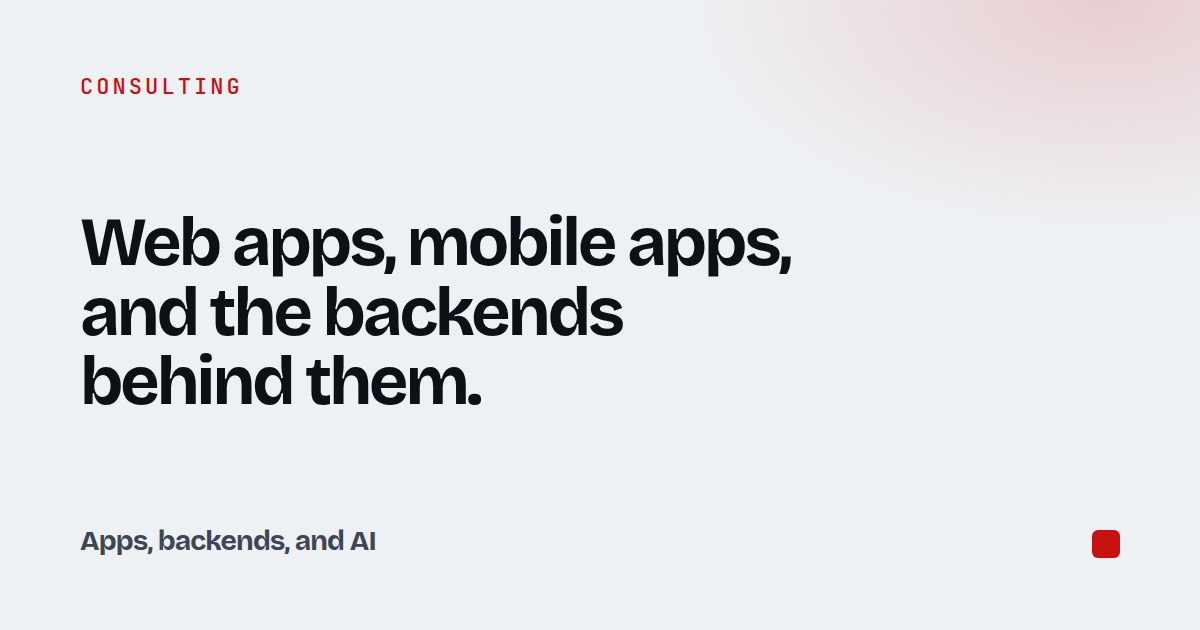
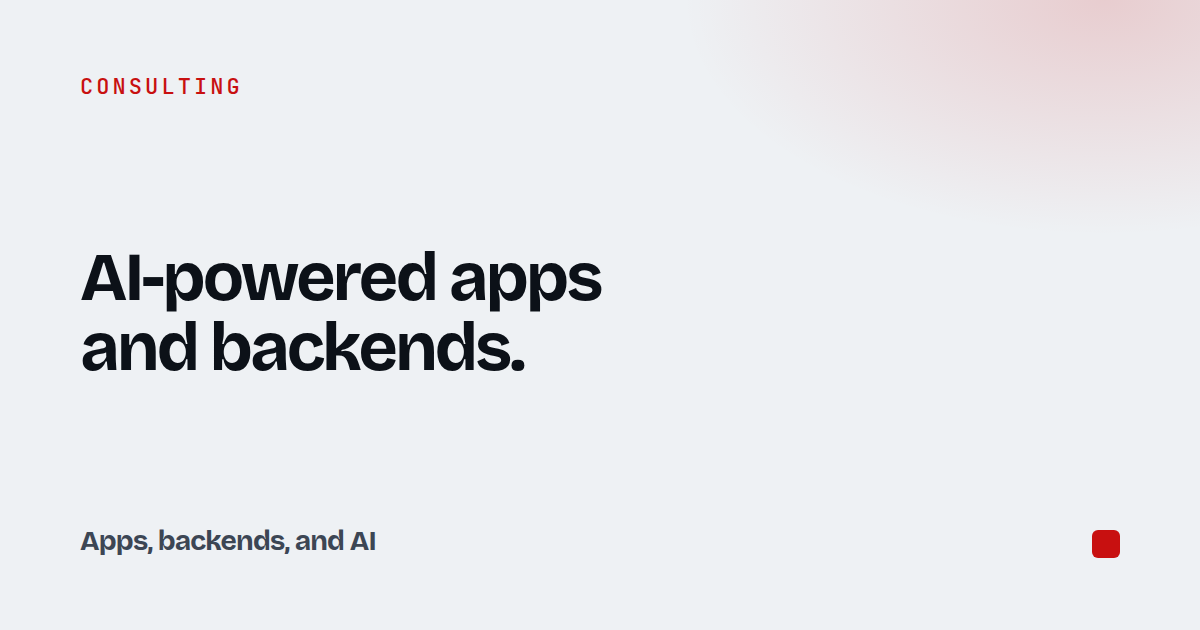
Fix the mobile menu overlay and lead with AI-powered work.
The open menu is portaled out of the sticky header, so the bar's blur no longer collapses it into a strip over the page. The hero and the SEO title now say AI-powered apps and backends.

Changed region(s): [[0.0617, 0.3317, 0.6783, 0.6635]]

diff --git a/src/components/TopBar.jsx b/src/components/TopBar.jsx
@@ -1,4 +1,5 @@
-import { useEffect, useId, useRef, useState } from "react"
+import { useEffect, useId, useLayoutEffect, useRef, useState } from "react"
+import { createPortal } from "react-dom"
 import { site } from "../content.js"
 
 function readTheme() {
@@ -19,6 +20,7 @@ export default function TopBar() {
   const menuId = useId()
   const toggleRef = useRef(null)
   const firstLinkRef = useRef(null)
+  const skipRestore = useRef(false)
 
   useEffect(() => {
     const ids = site.nav.map((item) => item.href.slice(1))
@@ -26,6 +28,7 @@ export default function TopBar() {
 
     const update = () => {
       frame = 0
+      if (document.documentElement.classList.contains("menu-lock")) return
       const bar = document.querySelector(".topbar")?.getBoundingClientRect().height ?? 72
       // Just under the sticky bar, past the scroll-padding landing point.
       // Sort by document position: Process sits above Work, but later in the nav.
@@ -70,24 +73,103 @@ export default function TopBar() {
     return () => window.removeEventListener("resize", onResize)
   }, [])
 
-  useEffect(() => {
+  useLayoutEffect(() => {
     if (!open) return undefined
+    const html = document.documentElement
+    const body = document.body
+    const content = document.getElementById("content")
+    const colophon = document.querySelector(".colophon")
+    const scrollY = window.scrollY
+    const syncTop = () => {
+      const bar = document.querySelector(".topbar")?.getBoundingClientRect().height ?? 72
+      html.style.setProperty("--menu-top", `${bar}px`)
+    }
+
+    html.classList.add("menu-lock")
+    body.style.position = "fixed"
+    body.style.top = `-${scrollY}px`
+    body.style.left = "0"
+    body.style.right = "0"
+    body.style.width = "100%"
+    if (content) content.inert = true
+    if (colophon) colophon.inert = true
+    syncTop()
+
+    const blockScroll = (event) => {
+      const menu = event.target instanceof Element ? event.target.closest(".menu") : null
+      if (menu && menu.scrollHeight > menu.clientHeight + 1) return
+      event.preventDefault()
+    }
+
     const onKey = (event) => {
       if (event.key === "Escape") {
         setOpen(false)
-        toggleRef.current?.focus()
+        toggleRef.current?.focus({ preventScroll: true })
+        return
+      }
+      if (event.key !== "Tab") return
+      const items = [...document.querySelectorAll(".topbar a, .topbar button, .menu-layer a, .menu-layer button")]
+        .filter((el) => el.tabIndex !== -1 && el.getClientRects().length > 0)
+      if (items.length === 0) return
+      const first = items[0]
+      const last = items[items.length - 1]
+      if (event.shiftKey && document.activeElement === first) {
+        event.preventDefault()
+        last.focus({ preventScroll: true })
+      } else if (!event.shiftKey && document.activeElement === last) {
+        event.preventDefault()
+        first.focus({ preventScroll: true })
       }
     }
+
     document.addEventListener("keydown", onKey)
-    firstLinkRef.current?.focus()
-    document.body.style.overflow = "hidden"
+    document.addEventListener("touchmove", blockScroll, { passive: false })
+    document.addEventListener("wheel", blockScroll, { passive: false })
+    window.addEventListener("resize", syncTop)
+    firstLinkRef.current?.focus({ preventScroll: true })
+
     return () => {
+      html.classList.remove("menu-lock")
+      html.style.removeProperty("--menu-top")
+      body.style.position = ""
+      body.style.top = ""
+      body.style.left = ""
+      body.style.right = ""
+      body.style.width = ""
+      if (content) content.inert = false
+      if (colophon) colophon.inert = false
+      if (!skipRestore.current) {
+        const behavior = html.style.scrollBehavior
+        html.style.scrollBehavior = "auto"
+        window.scrollTo(0, scrollY)
+        html.style.scrollBehavior = behavior
+      }
+      skipRestore.current = false
       document.removeEventListener("keydown", onKey)
-      document.body.style.overflow = ""
+      document.removeEventListener("touchmove", blockScroll)
+      document.removeEventListener("wheel", blockScroll)
+      window.removeEventListener("resize", syncTop)
     }
   }, [open])
 
   const close = () => setOpen(false)
+
+  const followLink = () => {
+    skipRestore.current = true
+    const html = document.documentElement
+    const body = document.body
+    const y = Math.abs(Number.parseInt(body.style.top || "0", 10)) || 0
+    const behavior = html.style.scrollBehavior
+    html.style.scrollBehavior = "auto"
+    body.style.position = ""
+    body.style.top = ""
+    body.style.left = ""
+    body.style.right = ""
+    body.style.width = ""
+    window.scrollTo(0, y)
+    html.style.scrollBehavior = behavior
+    setOpen(false)
+  }
 
   const onTheme = () => {
     const next = theme === "dark" ? "light" : "dark"
@@ -95,56 +177,70 @@ export default function TopBar() {
     setTheme(next)
   }
 
+  const nav = (
+    <nav id={menuId} className={open ? "menu open" : "menu"} aria-label="Primary">
+      <ul>
+        {site.nav.map((item, index) => (
+          <li key={item.href}>
+            <a
+              ref={index === 0 ? firstLinkRef : undefined}
+              href={item.href}
+              aria-current={current === item.href ? "true" : undefined}
+              onClick={followLink}
+            >
+              {item.label}
+            </a>
+          </li>
+        ))}
+      </ul>
+      <a className="button button-small menu-cta" href="#contact" onClick={followLink}>
+        {site.hero.primaryCta}
+      </a>
+    </nav>
+  )
+
   return (
-    <header className="topbar">
-      <div className="frame topbar-inner">
-        <a className="brand" href="#top">
-          <span className="brand-mark" aria-hidden="true" />
-          {site.name}
-        </a>
-
-        <button
-          ref={toggleRef}
-          className="menu-button"
-          type="button"
-          aria-expanded={open}
-          aria-controls={menuId}
-          onClick={() => setOpen((value) => !value)}
-        >
-          {open ? "Close" : "Menu"}
-        </button>
-
-        <nav id={menuId} className={open ? "menu open" : "menu"} aria-label="Primary">
-          <ul>
-            {site.nav.map((item, index) => (
-              <li key={item.href}>
-                <a
-                  ref={index === 0 ? firstLinkRef : undefined}
-                  href={item.href}
-                  aria-current={current === item.href ? "true" : undefined}
-                  onClick={close}
-                >
-                  {item.label}
-                </a>
-              </li>
-            ))}
-          </ul>
-          <a className="button button-small menu-cta" href="#contact" onClick={close}>
-            {site.hero.primaryCta}
+    <>
+      <header className={open ? "topbar is-open" : "topbar"}>
+        <div className="frame topbar-inner">
+          <a className="brand" href="#top">
+            <span className="brand-mark" aria-hidden="true" />
+            {site.name}
           </a>
-        </nav>
 
-        <div className="topbar-tools">
-          <button className="theme" type="button" onClick={onTheme}>
-            {theme === "dark" ? "Light" : "Dark"}
-            <span className="sr-only"> appearance</span>
+          <button
+            ref={toggleRef}
+            className="menu-button"
+            type="button"
+            aria-expanded={open}
+            aria-controls={menuId}
+            onClick={() => setOpen((value) => !value)}
+          >
+            {open ? "Close" : "Menu"}
           </button>
-          <a className="button button-small desk-cta" href="#contact">
-            {site.hero.primaryCta}
-          </a>
+
+          {open ? null : nav}
+
+          <div className="topbar-tools">
+            <button className="theme" type="button" onClick={onTheme}>
+              {theme === "dark" ? "Light" : "Dark"}
+              <span className="sr-only"> appearance</span>
+            </button>
+            <a className="button button-small desk-cta" href="#contact">
+              {site.hero.primaryCta}
+            </a>
+          </div>
         </div>
-      </div>
-      {open ? <button className="scrim" type="button" aria-label="Close menu" onClick={close} /> : null}
-    </header>
+      </header>
+      {open
+        ? createPortal(
+            <div className="menu-layer">
+              <button className="scrim" type="button" aria-label="Close menu" tabIndex={-1} onClick={close} />
+              {nav}
+            </div>,
+            document.body,
+          )
+        : null}
+    </>
   )
 }

diff --git a/src/index.css b/src/index.css
@@ -201,10 +201,32 @@ main,
 .topbar {
   position: sticky;
   top: 0;
-  z-index: 40;
+  z-index: 80;
   background: color-mix(in srgb, var(--bg) 86%, transparent);
-  backdrop-filter: blur(16px);
   border-bottom: 1px solid var(--line);
+}
+
+/* Blur lives on a pseudo-element. backdrop-filter on the bar itself is a
+   containing block for position:fixed, which trapped the mobile menu. */
+.topbar::before {
+  content: "";
+  position: absolute;
+  inset: 0;
+  z-index: -1;
+  pointer-events: none;
+  backdrop-filter: blur(16px);
+}
+
+.topbar.is-open {
+  position: fixed;
+  top: 0;
+  left: 0;
+  right: 0;
+  background-color: var(--bg);
+}
+
+.topbar.is-open::before {
+  display: none;
 }
 
 .topbar-inner {
@@ -298,11 +320,26 @@ main,
   margin-left: auto;
 }
 
-.scrim {
+.menu-layer {
   position: fixed;
   inset: 0;
-  z-index: 30;
-  background: rgb(8 10 14 / 45%);
+  z-index: 70;
+  background-color: var(--bg);
+}
+
+.scrim {
+  position: absolute;
+  inset: 0;
+  z-index: 0;
+  display: block;
+  border: 0;
+  padding: 0;
+  background-color: var(--bg);
+}
+
+html.menu-lock,
+html.menu-lock body {
+  overscroll-behavior: none;
 }
 
 .intro {
@@ -831,23 +868,26 @@ main,
 
   .menu {
     display: none;
-    position: fixed;
-    z-index: 45;
-    top: 0;
-    right: 0;
-    bottom: 0;
-    width: min(22rem, 88vw);
-    margin: 0;
-    flex-direction: column;
-    align-items: stretch;
-    gap: 0.5rem;
-    padding: 5.2rem 1.25rem 1.5rem;
-    background: var(--paper);
-    border-left: 1px solid var(--line);
   }
 
   .menu.open {
+    position: absolute;
+    z-index: 1;
+    top: var(--menu-top, var(--bar));
+    right: 0;
+    bottom: 0;
+    left: 0;
     display: flex;
+    flex-direction: column;
+    align-items: stretch;
+    gap: 0.35rem;
+    width: auto;
+    margin: 0;
+    padding: 0.75rem 1.25rem 1.5rem;
+    overflow-y: auto;
+    overscroll-behavior: contain;
+    background-color: var(--bg);
+    border-left: 0;
   }
 
   .menu ul {

diff --git a/src/content.js b/src/content.js
@@ -9,7 +9,7 @@ export const site = {
   email: "priyanshusaini1102@gmail.com",
   role: "Apps, backends, and AI",
   seo: {
-    title: "Priyanshu Saini — Apps, backends, and AI",
+    title: "Priyanshu Saini — AI-powered apps and backends",
     description:
       "Web apps, mobile apps, and Node.js backends for startups and businesses. AI and semantic search included. 3+ years in fintech production.",
     ogImage: "/og.png",
@@ -27,7 +27,7 @@ export const site = {
   ],
   hero: {
     kicker: "Consulting",
-    title: "Web apps, mobile apps, and the backends behind them.",
+    title: "AI-powered apps and backends.",
     lede: "I build React and Next.js web apps, React Native mobile apps, and Node.js APIs. AI is part of the work: integrations and semantic search with Qdrant. Three-plus years of the production backend work has been in fintech.",
     primaryCta: "Start a project",
     secondaryCta: "Selected work",
